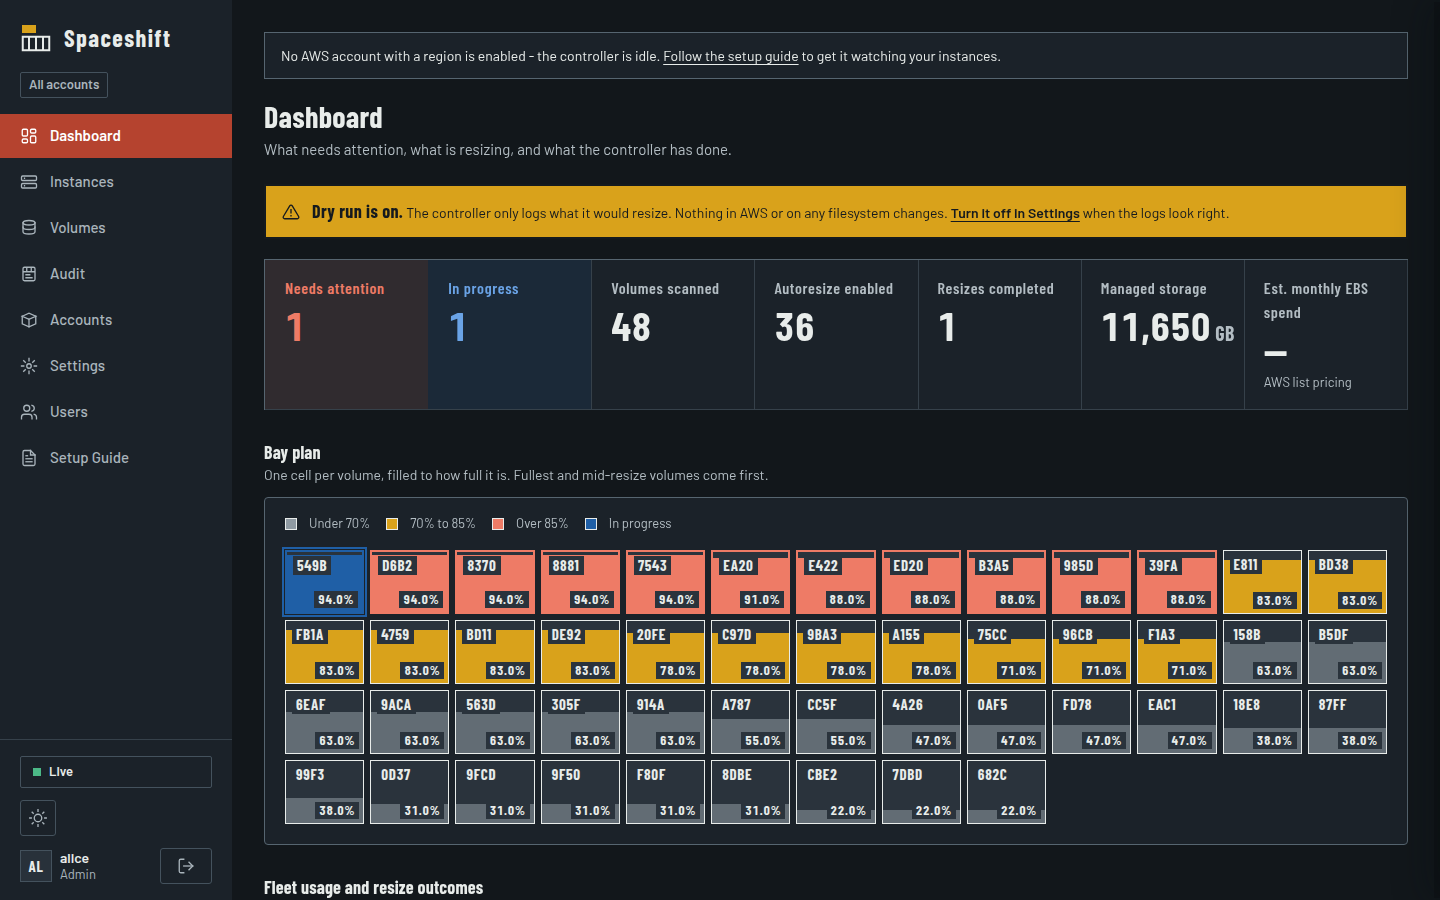
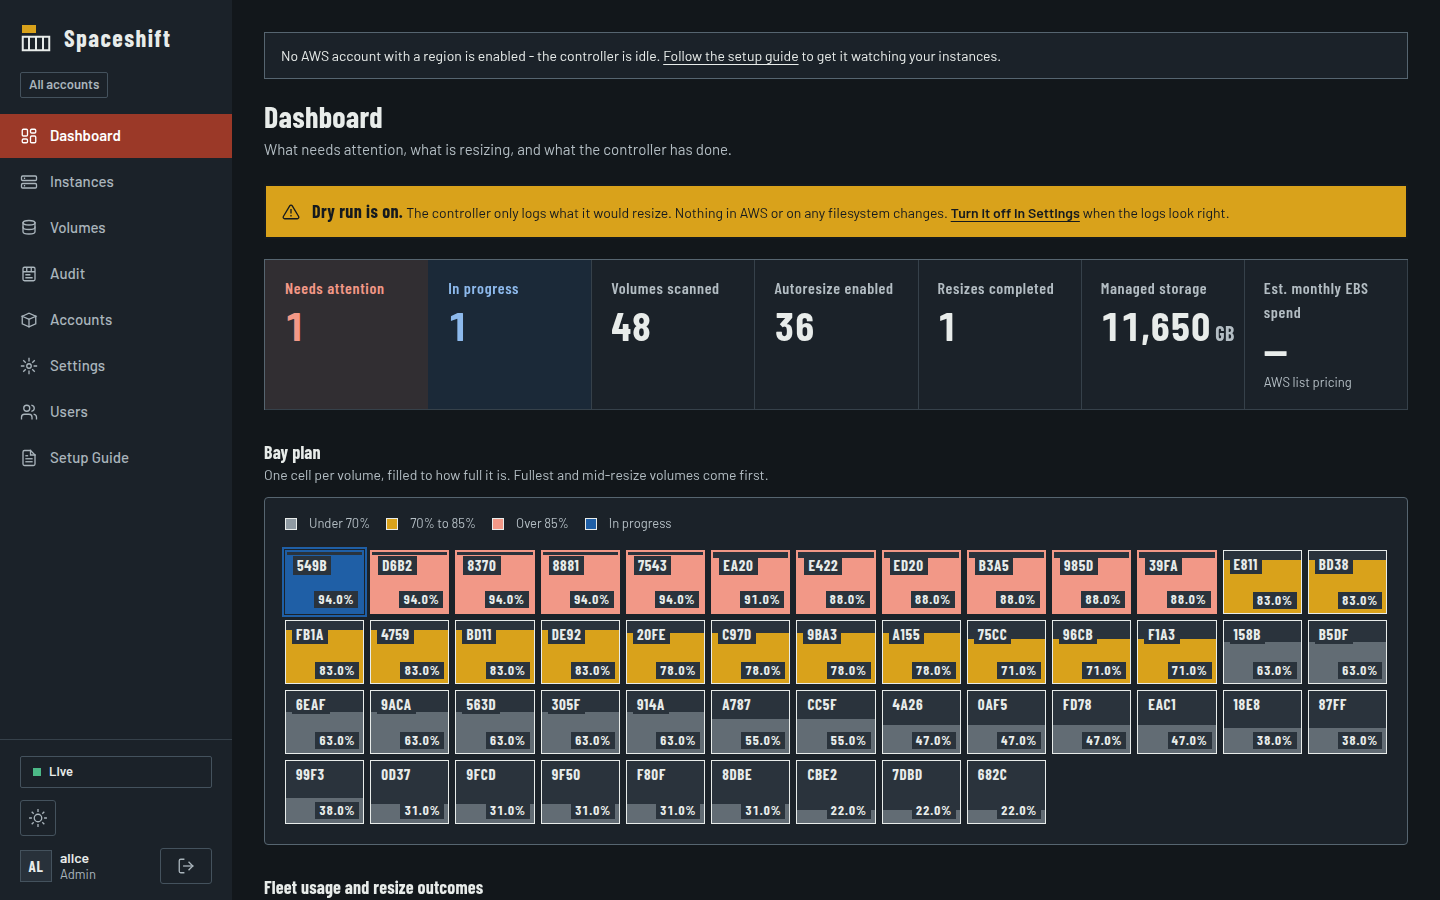
fix(dashboard): solve state colours for 4.5:1 contrast in both themes

diff --git a/controller/dashboard/static/css/dashboard-base.css b/controller/dashboard/static/css/dashboard-base.css
@@ -47,6 +47,11 @@
   --rail-2: #28313a;
   --rail-text: #e8ecea;
   --rail-text-2: #aab5bc;
+  --rail-ok: #4cb987;
+  --rail-err: #f29887;
+  --rail-active: #9b3928;
+  --rail-line: #44525d;
+  --rail-rule: #36414a;
 
   /* Primary action is ink, not a brand colour: steel on concrete, concrete on steel. */
   --action: light-dark(#1b2229, #e8ecea);
@@ -59,11 +64,12 @@
   --focus: light-dark(#1b2229, #f2b925);
 
   /* State colours: each carries meaning only. */
-  --green: light-dark(#26704a, #4cb987);
-  --red: light-dark(#b5432f, #ee7b66);
-  --amber: light-dark(#8a6100, #e6b43a);
+  /* State text colours are solved so each is >= 4.5:1 on every surface and on its own 10-18% tint, in both themes. */
+  --green: light-dark(#226543, #62c296);
+  --red: light-dark(#9b3928, #f29887);
+  --amber: light-dark(#7c5700, #e6b43a);
   --amber-fill: #d9a21b;
-  --resizing: light-dark(#1f5fa6, #6aa3e6);
+  --resizing: light-dark(#1d599c, #8db9ec);
   --resizing-fill: #1f5fa6;
   --on-state: light-dark(#ffffff, #12171b);
 
@@ -164,7 +170,7 @@ input, select, textarea { caret-color: var(--text); accent-color: var(--action);
   font-weight: 600;
   color: var(--rail-text-2);
   padding: 2px var(--sp-2);
-  border: 1px solid #44525d;
+  border: 1px solid var(--rail-line);
   border-radius: var(--radius-sm);
   white-space: nowrap;
 }
@@ -188,7 +194,7 @@ input, select, textarea { caret-color: var(--text); accent-color: var(--action);
 .nav-link:hover { color: #fff; background: var(--rail-2); text-decoration: none; }
 .nav-link.is-active {
   color: #fff;
-  background: #b5432f;
+  background: var(--rail-active);
   font-weight: 600;
 }
 
@@ -197,7 +203,7 @@ input, select, textarea { caret-color: var(--text); accent-color: var(--action);
   flex-direction: column;
   gap: var(--sp-3);
   padding: var(--sp-4) var(--sp-5) 0;
-  border-top: 1px solid #36414a;
+  border-top: 1px solid var(--rail-rule);
 }
 .rail-tools { display: flex; align-items: center; gap: var(--sp-2); }
 
@@ -211,18 +217,18 @@ input, select, textarea { caret-color: var(--text); accent-color: var(--action);
   color: var(--rail-text-2);
   white-space: nowrap;
   cursor: default;
-  border: 1px solid #44525d;
+  border: 1px solid var(--rail-line);
   border-radius: var(--radius-sm);
 }
 .live-label { font-weight: 600; color: var(--rail-text); }
 .live-dot {
   width: 8px; height: 8px;
-  background: #4cb987;
+  background: var(--rail-ok);
   transition: background var(--ease);
 }
 .live[data-state="refreshing"] .live-dot { animation: live-pulse 900ms steps(2, jump-none) infinite; }
-.live[data-state="error"] .live-dot { background: #ee7b66; }
-.live[data-state="error"] .live-label { color: #ee7b66; }
+.live[data-state="error"] .live-dot { background: var(--rail-err); }
+.live[data-state="error"] .live-label { color: var(--rail-err); }
 
 @keyframes live-pulse {
   0%, 100% { opacity: 1; }
@@ -236,7 +242,7 @@ input, select, textarea { caret-color: var(--text); accent-color: var(--action);
   width: 32px; height: 32px;
   display: inline-flex; align-items: center; justify-content: center;
   background: var(--rail-2);
-  border: 1px solid #44525d;
+  border: 1px solid var(--rail-line);
   color: var(--rail-text);
   font-family: var(--font-display);
   font-size: 0.9375rem; font-weight: 700; letter-spacing: 0.04em;
@@ -311,7 +317,7 @@ input, select, textarea { caret-color: var(--text); accent-color: var(--action);
 
 .btn.btn-quiet { border-color: transparent; background: transparent; color: var(--text-2); }
 .btn.btn-quiet:hover:not(:disabled) { color: var(--text); background: var(--surface-2); border-color: transparent; }
-.rail .btn.btn-quiet { color: var(--rail-text-2); border-color: #44525d; }
+.rail .btn.btn-quiet { color: var(--rail-text-2); border-color: var(--rail-line); }
 .rail .btn.btn-quiet:hover:not(:disabled) { color: #fff; background: var(--rail-2); }
 
 .pager {
@@ -445,7 +451,7 @@ td.empty {
   width: 36px;
   height: 36px;
   border-radius: var(--radius);
-  border: 1px solid #44525d;
+  border: 1px solid var(--rail-line);
   background: transparent;
   color: var(--rail-text-2);
   cursor: pointer;
@@ -518,7 +524,7 @@ td.empty {
     scrollbar-width: none;
     margin: var(--sp-1) calc(var(--sp-4) * -1) 0;
     padding: 0 var(--sp-2);
-    border-top: 1px solid #36414a;
+    border-top: 1px solid var(--rail-rule);
   }
   .nav::-webkit-scrollbar { display: none; }
   .nav-link { flex: none; padding: 0 var(--sp-3); }

diff --git a/controller/dashboard/templates/base.html b/controller/dashboard/templates/base.html
@@ -6,10 +6,10 @@
 <meta name="csrf-token" content="{{ csrf_token() }}">
 <title>{% block title %}{% endblock %} · Spaceshift</title>
 <link rel="preload" href="{{ url_for('static', filename='fonts/BarlowCondensed-700.woff2') }}" as="font" type="font/woff2" crossorigin>
-<link rel="stylesheet" href="{{ url_for('static', filename='css/fonts.css') }}?v=3.2.2">
-<link rel="stylesheet" href="{{ url_for('static', filename='css/dashboard-base.css') }}?v=3.2.2">
-<link rel="stylesheet" href="{{ url_for('static', filename='css/dashboard-components.css') }}?v=3.2.2">
-<link rel="stylesheet" href="{{ url_for('static', filename='css/dashboard-pages.css') }}?v=3.2.2">
+<link rel="stylesheet" href="{{ url_for('static', filename='css/fonts.css') }}?v=3.3.0">
+<link rel="stylesheet" href="{{ url_for('static', filename='css/dashboard-base.css') }}?v=3.3.0">
+<link rel="stylesheet" href="{{ url_for('static', filename='css/dashboard-components.css') }}?v=3.3.0">
+<link rel="stylesheet" href="{{ url_for('static', filename='css/dashboard-pages.css') }}?v=3.3.0">
 {% block head %}{% endblock %}
 </head>
 {# Sign-in pages set standalone: no nav, no live refresh - there's nothing to refresh. #}
@@ -185,9 +185,9 @@
 
 <div id="toast-container" class="toast-container" aria-live="polite"></div>
 
-<script src="{{ url_for('static', filename='js/dashboard-utils.js') }}?v=3.2.2"></script>
-<script src="{{ url_for('static', filename='js/dashboard-features.js') }}?v=3.2.2"></script>
-<script src="{{ url_for('static', filename='js/dashboard-init.js') }}?v=3.2.2"></script>
+<script src="{{ url_for('static', filename='js/dashboard-utils.js') }}?v=3.3.0"></script>
+<script src="{{ url_for('static', filename='js/dashboard-features.js') }}?v=3.3.0"></script>
+<script src="{{ url_for('static', filename='js/dashboard-init.js') }}?v=3.3.0"></script>
 {% block scripts %}{% endblock %}
 </body>
 </html>

diff --git a/controller/dashboard/templates/overview.html b/controller/dashboard/templates/overview.html
@@ -217,5 +217,5 @@
 
 {% block scripts %}
 <script src="{{ url_for('static', filename='js/vendor/apexcharts.min.js') }}"></script>
-<script src="{{ url_for('static', filename='js/overview-charts.js') }}?v=3.2.2"></script>
+<script src="{{ url_for('static', filename='js/overview-charts.js') }}?v=3.3.0"></script>
 {% endblock %}

diff --git a/DESIGN.md b/DESIGN.md
@@ -11,10 +11,10 @@ colors:
   ink-soft: "#424d55"
   ink-quiet: "#59656c"
   rail-steel: "#1b2229"
-  oxide-red: "#b5432f"
+  oxide-red: "#9b3928"
   safety-mustard: "#d9a21b"
-  mustard-ink: "#8a6100"
-  tide-green: "#26704a"
+  mustard-ink: "#7c5700"
+  tide-green: "#226543"
   ultramarine: "#1f5fa6"
 typography:
   display:
@@ -125,24 +125,24 @@ The look is container-terminal rather than control-room: a dark steel rail down 
 
 ## Colors
 
-A concrete ground, steel structure and three paints. Light and dark are one palette, defined once in `dashboard-base.css` with `light-dark()`; the values below are the light theme, and the dark counterparts are in the sidecar.
+A concrete ground, steel structure and three paints. State text colours are solved, not eyeballed: each is at least 4.5:1 on every surface and on its own 10-18% tint, in both themes. Light and dark are one palette, defined once in `dashboard-base.css` with `light-dark()`; the values below are the light theme, and the dark counterparts are in the sidecar.
 
 ### Primary
 - **Rail Steel** (#1b2229): the side rail in both themes, and the primary button in light mode (concrete in dark mode). It is the structure colour, not a brand accent.
 
 ### Secondary
-- **Oxide Red** (#b5432f): danger and the current page. Over-threshold bay cells, "needs attention", failed states, destructive buttons, and the active nav item.
+- **Oxide Red** (#9b3928): danger and the current page. Over-threshold bay cells, "needs attention", failed states, destructive buttons, and the active nav item.
 - **Safety Mustard** (#d9a21b): caution and dry-run. The dry-run strip, 70-85% bay cells, warning meters and badges. Text on it is always ink (#151a1e).
 
 ### Tertiary
-- **Ultramarine** (#1f5fa6): a resize is in progress. Nothing else is ever this colour.
-- **Tide Green** (#26704a): healthy and on. Autoresize switches, completed resizes, the watched share of storage.
+- **Ultramarine** (#1f5fa6): a resize is in progress. Nothing else is ever this colour. As text it is #1d599c in light and #8db9ec in dark, so it stays readable on its own tint.
+- **Tide Green** (#226543): healthy and on. Autoresize switches, completed resizes, the watched share of storage.
 
 ### Neutral
 - **Concrete Ground** (#e6e9e6): the page. **Concrete Surface** (#f6f7f5): tables, panels, tiles, inputs. **Concrete Inset** (#eceeeb): table headers and quiet fills.
 - **Steel Line** (#c3c9c5) for row dividers; **Steel Line Strong** (#8a959a) for panel and control borders.
 - **Ink** (#151a1e), **Ink Soft** (#424d55), **Ink Quiet** (#59656c): text, in falling order of emphasis. All three meet 4.5:1 on the surfaces they are used on, in both themes.
-- **Mustard Ink** (#8a6100): amber used as text, where the mustard fill would fail contrast.
+- **Mustard Ink** (#7c5700): amber used as text, where the mustard fill would fail contrast.
 
 ### Named Rules
 **The One Blue Rule.** Ultramarine means a resize is in progress, in badges, tiles, bay cells and chart bars. If a design wants a blue for any other reason, it is wrong.

diff --git a/CHANGELOG.md b/CHANGELOG.md
@@ -15,6 +15,7 @@ and this project adheres to [Semantic Versioning](https://semver.org/spec/v2.0.0
 - A `proxy` service in `docker-compose.yml` (nginx, config in `nginx/default.conf`): the in-compose second hop between a host TLS proxy and the dashboard. It passes the host proxy's `X-Forwarded-*` headers through untouched, so the app's one-hop `SPACESHIFT_BEHIND_TLS_PROXY` trust and per-address login rate limiting keep seeing the real client.
 
 ### Fixed
+- Dashboard text contrast: the red, green, amber and "resizing" blue used for text were under 4.5:1 on their own tinted backgrounds in places (red measured 4.31:1 on the "Needs attention" tile and red badges in light mode). Each state colour is now solved so it passes on every surface and tint it appears on, in both themes: light red `#9b3928`, green `#226543`, amber `#7c5700`, blue `#1d599c`; dark red `#f29887`, green `#62c296`, blue `#8db9ec`. The sidebar's active page and Live lamp colours moved into tokens too. axe-core now reports no contrast failures on any page in either theme.
 - Dashboard on phones and tablets: every button, input, select, switch, copy button and the logo, theme and account controls are at least 44px to tap (the row checkbox's whole cell is the target); the header is one row of controls plus a scrolling nav, no longer sticky, so a landscape phone keeps its height (the Live lamp shows the words only when a refresh fails); the summary tiles fit two to a row at 390px; Settings rows stack into one column (the rule was overridden by a later stylesheet); the Settings tabs no longer slide under the header.
 - Dashboard keyboard and screen-reader support: the detail drawer and both dialogs now move focus inside when they open, make the page behind them inert so Tab can't reach it, close on Escape, and return focus to what opened them. A closed drawer is no longer reachable with Tab. Table rows that open a drawer or an audit event are focusable and open on Enter or Space. The 10-second refresh keeps keyboard focus on a row, toggle or button inside the table it swaps, gives up after 8 seconds instead of hanging, and shows "Not updating" (with an explanation on hover) when a refresh fails instead of the vague "Error". Bay-plan cells name their level for screen readers, and Windows high-contrast mode keeps fills, switches and the current page visible.
 - Volumes / Instances: the Threshold and Max size inputs no longer save the moment you press Enter or click away. Editing only marks a field as changed (amber, "(unsaved)"); one **Update** button under the table saves every changed field at once (Enter does the same), **Discard changes** - or Escape in a field - restores the old values, and a value the server rejects stays in its field, turns red and gets the reason in a toast. The live refresh pauses while changes are pending.
